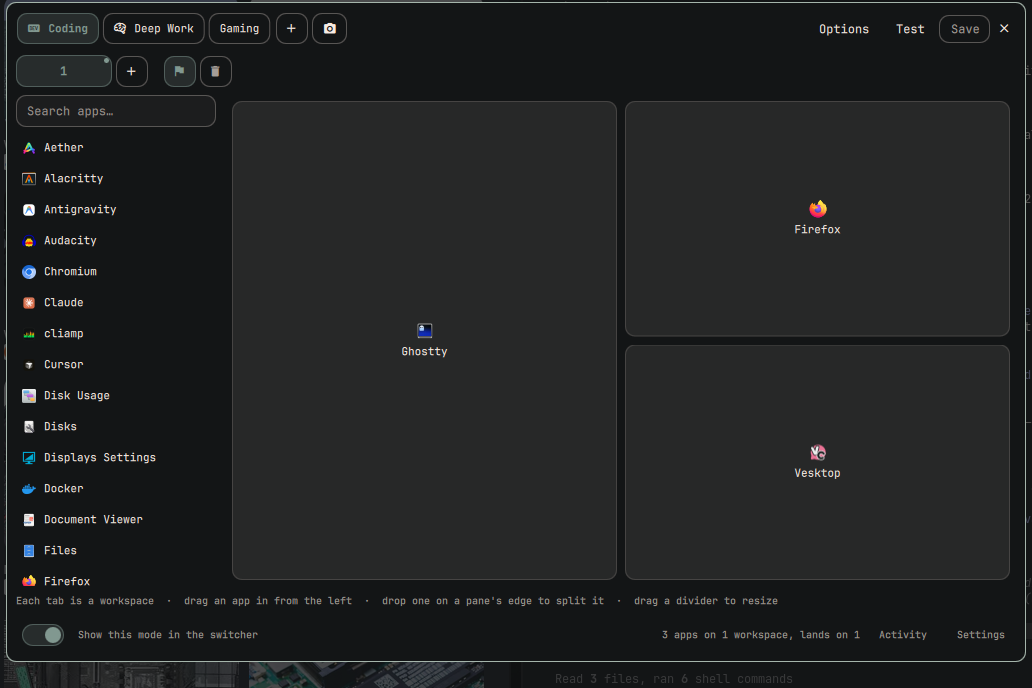
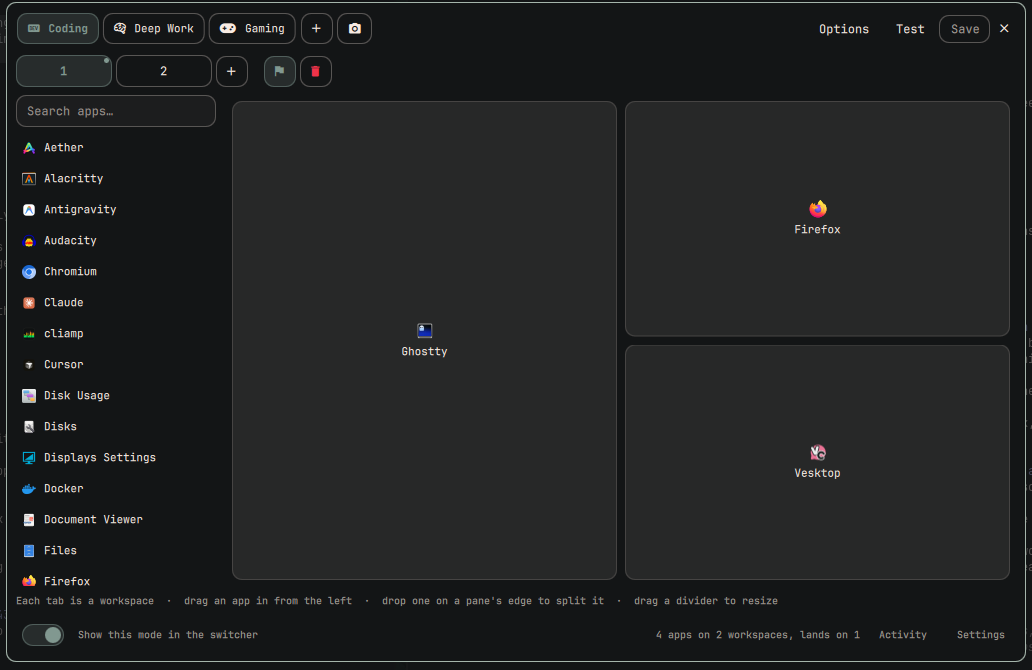
Call it Workspace Modes, and show what it actually looks like
The name is the product's, not the package's. `name` and the bar widget's
`displayName` read Workspace Modes now, along with every notification, the
CLI's help, and the README. What nobody has to re-learn stays put: the id
is still io.github.anishfn.omara, the command is still `omara`, the config
is still omara.json, and the IPC target is still omara. Renaming those
would break an install, a keybinding and a script each, to say the same
thing twice.

Every screenshot predated the canvas — app-picker.png and icon-picker.png
were four days older than the panel they claimed to show, and preview.png
still had the sidebar in it. All retaken, plus two the README never had:
the switcher, which is the part you touch every day, and the Options
sheet, which is where everything that is not the canvas went. The three
replacements are also a fifth of the weight of the ones they replace.

The opening illustration described the flat list of applications the
canvas replaced. It draws the layout now, because that is the thing you
draw. Quick start pointed at an Environment section that has been behind
Options since the panel became the canvas.

diff --git a/Service.qml b/Service.qml
@@ -551,9 +551,9 @@ Item {
     service.configRefusal = reason
     log("warn", "Refusing to read or write omara.json: " + reason)
     notify([
-      "omarchy-notification-send", "--app-name", "Omara", "-u", "critical", "Omara",
+      "omarchy-notification-send", "--app-name", "Workspace Modes", "-u", "critical", "Workspace Modes",
       "omara.json was not used because " + reason
-        + ". Omara started with no modes and will not write to that path. Nothing was changed or deleted."
+        + ". Workspace Modes started with no modes and will not write to that path. Nothing was changed or deleted."
     ])
   }
 
@@ -568,8 +568,8 @@ Item {
       else log("warn", "Could not save " + backup + ": " + detail)
     })
     notify([
-      "omarchy-notification-send", "--app-name", "Omara", "-u", "normal",
-      "Omara", "omara.json could not be read. A copy was saved as omara.json.corrupt."
+      "omarchy-notification-send", "--app-name", "Workspace Modes", "-u", "normal",
+      "Workspace Modes", "omara.json could not be read. A copy was saved as omara.json.corrupt."
     ])
   }
 
@@ -1249,7 +1249,7 @@ Item {
         + (current ? "" : " (superseded by a later switch)"))
       if (!current) return
       if (!silent && config.behavior.showNotifications !== false)
-        notify(["omarchy-notification-send", "--app-name", "Omara", "Omara", "No mode. " + name + " turned off."])
+        notify(["omarchy-notification-send", "--app-name", "Workspace Modes", "Workspace Modes", "No mode. " + name + " turned off."])
       service.activationFinished("", 0)
     })
     return true
@@ -1257,7 +1257,7 @@ Item {
 
   function notifySummary(ctx, summary) {
     if (config.behavior.showNotifications === false) return
-    var argv = ["omarchy-notification-send", "--app-name", "Omara"]
+    var argv = ["omarchy-notification-send", "--app-name", "Workspace Modes"]
     if (ctx.icon) argv = argv.concat(["-g", String(ctx.icon)])
     if (summary.warnings > 0) argv = argv.concat(["-u", "normal"])
     argv.push("Mode: " + ctx.name)
@@ -1380,7 +1380,7 @@ Item {
       }
     }
     onStatusChanged: if (status === Loader.Error)
-      service.log("warn", "Omara switch dialog failed to load: " + (errorString ? errorString() : "unknown error"))
+      service.log("warn", "Workspace Modes switch dialog failed to load: " + (errorString ? errorString() : "unknown error"))
   }
 
   // ---------------------------------------------------------------- themes
@@ -1599,7 +1599,7 @@ Item {
     log("info", "Trigger: " + decision.reason + " → asking about " + ctx.name)
     notify([
       "omarchy-notification-send",
-      "--app-name", "Omara",
+      "--app-name", "Workspace Modes",
       "-u", "normal",
       "Switch to " + ctx.name + "?",
       decision.reason + ", click to switch",
@@ -1627,7 +1627,7 @@ Item {
       }
     }
     onStatusChanged: if (status === Loader.Error)
-      service.log("warn", "Omara editor failed to load: " + (errorString ? errorString() : "unknown error"))
+      service.log("warn", "Workspace Modes editor failed to load: " + (errorString ? errorString() : "unknown error"))
   }
 
   property var pendingEditorMode: null

diff --git a/BarWidget.qml b/BarWidget.qml
@@ -24,7 +24,7 @@ BarWidget {
   readonly property string modeIcon: activeMode && activeMode.icon ? String(activeMode.icon) : ""
   readonly property string modeName: activeMode ? String(activeMode.name) : "No mode"
 
-  // The mark is the Omara logo until a mode brings its own icon, so the bar
+  // The mark is the Workspace Modes logo until a mode brings its own icon, so the bar
   // says which mode you are in before it says whose plugin this is.
   readonly property bool showLogo: root.showIcon && root.modeIcon === ""
   readonly property string glyphText: root.showIcon && root.modeIcon !== "" ? root.modeIcon : ""

diff --git a/OmaraMark.qml b/OmaraMark.qml
@@ -1,7 +1,7 @@
 import QtQuick
 import qs.Commons
 
-// The Omara mark: the shape a dwindle layout makes — one pane down the left,
+// The Workspace Modes mark: the shape a dwindle layout makes — one pane down the left,
 // two stacked beside it. Drawn rather than loaded, so it takes the bar's own
 // colour and stays sharp at the size the bar asks for.
 //

diff --git a/README.md b/README.md
@@ -1,29 +1,31 @@
 <p align="center">
-  <img src="assets/omara.png" alt="Omara" width="180">
+  <img src="assets/omara.png" alt="Workspace Modes" width="180">
 </p>
 
-<h1 align="center">Omara</h1>
+<h1 align="center">Workspace Modes</h1>
 
 <p align="center"><strong>Switch your entire desktop into the way you work.</strong></p>
 
 A *mode* is a way your desktop is set up. Coding, Gaming, Deep Work, whatever
 you actually do. Pick one and Omarchy becomes that: your apps open on the
-workspaces you want them on, notifications behave, audio goes where it should,
-and you land exactly where you meant to start.
+workspaces you laid them out on, notifications behave, audio goes where it
+should, and you land exactly where you meant to start.
 
 ```
-Coding                          Deep Work
-  Ghostty        ws 1             Do Not Disturb    on
-  Firefox        ws 2             Theme             gruvbox
-  Slack          ws 3             Workspace         3
-  Do Not Disturb off              Everything else   left alone
-  Land on        ws 1
+Coding                              Deep Work
+  ws 1  ┌─────────┬─────────┐         Do Not Disturb   on
+        │         │ Firefox │         Theme            gruvbox
+        │ Ghostty ├─────────┤         Land on          ws 3
+        │         │ Slack   │         Everything else  left alone
+        └─────────┴─────────┘
+  ws 2  Obsidian
+  Land on  ws 1
 ```
 
-One click, or `omara activate coding`.
+You draw that layout; you do not type it. One click, or `omara activate coding`.
 
-Local-first. No account, no cloud, no telemetry, no network access. Omara
-ships **empty**: nothing exists until you make it.
+Local-first. No account, no cloud, no telemetry, no network access. Workspace
+Modes ships **empty**: nothing exists until you make it.
 
 ---
 
@@ -83,12 +85,12 @@ one per action.
 
 ## What it is not
 
-**A session manager.** Omara does not save or restore window layouts, and it
-never will. The workspace canvas is a plan for what a mode *opens* — which
-workspace each application lands on and in what order — not a snapshot of
-where your windows happen to be sitting, and Omara never reads geometry back
-off the screen. Tools that snapshot your Hyprland windows already do that job,
-and Omara is built to sit alongside one.
+**A session manager.** Workspace Modes does not save or restore window layouts,
+and it never will. The workspace canvas is a plan for what a mode *opens* —
+which workspace each application lands on and in what order — not a snapshot of
+where your windows happen to be sitting, and Workspace Modes never reads
+geometry back off the screen. Tools that snapshot your Hyprland windows already
+do that job, and Workspace Modes is built to sit alongside one.
 
 | A session manager restores | A mode changes |
 |---|---|
@@ -107,8 +109,8 @@ and Omara is built to sit alongside one.
 | Omarchy | 4.0 (Quattro) or newer |
 | Everything else | already on your system: Quickshell, Hyprland, PipeWire, `jq` |
 
-Omara installs nothing, pulls no dependencies, and makes no network request
-after the clone.
+Workspace Modes installs nothing, pulls no dependencies, and makes no network
+request after the clone.
 
 Check you are on a new enough Omarchy:
 
@@ -155,7 +157,7 @@ omarchy plugin enable io.github.anishfn.omara --section left
 
 ```bash
 omarchy plugin list | grep modes
-# io.github.anishfn.omara   enabled   third-party   bar-widget,service   Omara
+# io.github.anishfn.omara   enabled   third-party   bar-widget,service   Workspace Modes
 ```
 
 The widget appears in your bar immediately, reading `○ No mode`. If it does
@@ -211,13 +213,15 @@ desktop back the way it was.
 | `~/.config/omarchy/omara.json` | your modes, safe to version-control |
 | `~/.local/state/omarchy/omara-state.json` | what to put back on *Disable mode* |
 
-Those three are the only paths Omara writes.
+Those three are the only paths Workspace Modes writes.
 
 ---
 
 ## Quick start
 
-1. **Click the widget** in your bar. On first run it reads `○ No mode`.
+![The switcher](screenshots/switcher.png)
+
+1. **Click the widget** in your bar. On first run it reads `No mode`.
    There are no modes until you make one.
 2. **Create a mode.** Fastest way: set your desktop up the way you like it,
    then press the camera, which captures what is open, where, and how.
@@ -227,10 +231,10 @@ Those three are the only paths Omara writes.
    1, browser on 2, chat on 3. Drop an app on the edge of a pane to split it.
 4. **Set where you land.** Press the flag on whichever tab you want the mode
    to leave you on.
-5. **Set the mood.** Under *Environment*: Do Not Disturb, audio output,
-   wallpaper, and **Theme**, each picked from a list rather than typed.
+5. **Set the mood.** Under **Options**: Do Not Disturb, audio output,
+   wallpaper, and theme, each picked from a list rather than typed.
 6. **Save**, then click the mode in the bar popup. If windows are already
-   open, Omara asks whether to close them first.
+   open, Workspace Modes asks whether to close them first.
 
 Your apps open across their workspaces without the screen flicking through each
 one, and you end up on the workspace you chose.
@@ -321,9 +325,9 @@ want is a pane you close.
 
 ![Choosing an icon](screenshots/icon-picker.png)
 
-The icon box next to the name, under **Options**, opens a searchable grid. Search by what you are
-doing (`code`, `game`, `focus`, `music`, `terminal`) or browse. **No icon** is
-always there.
+The icon box next to the name, under **Options**, opens a searchable grid.
+Search by what you are doing (`code`, `game`, `focus`, `music`, `terminal`) or
+browse. **No icon** is always there.
 
 The set is drawn from the glyphs Omarchy's own menu ships, so everything in the
 grid is guaranteed to render in your font rather than showing up as an empty
@@ -382,10 +386,10 @@ Hyprland's own grammar and nothing else: an id (`3`), a relative step (`+1`,
 `name:Deep Work`), or a special (`special:magic`). Anything outside that is
 refused rather than sent to the compositor.
 
-Some applications, Chromium among them, hand their window to a different
-process than the one Hyprland launched, so the placement rule loses track of
-them. Omara watches for the window and moves it to the right workspace itself
-when that happens, without following it.
+Some applications, Chromium among them, hand their window to a different process
+than the one Hyprland launched, so the placement rule loses track of them.
+Workspace Modes watches for the window and moves it to the right workspace
+itself when that happens, without following it.
 
 So a Coding mode might be:
 
@@ -398,6 +402,12 @@ So a Coding mode might be:
 Two workspaces populated, and you start on the terminal.
 
 ### Environment
+
+![Options](screenshots/options.png)
+
+Everything that is not the workspace canvas lives behind **Options**: what the
+mode is called, its icon, what it does to the environment, and the commands and
+triggers under *Advanced*. Duplicate and Delete are at the bottom.
 
 | Field | Options |
 |---|---|
@@ -425,11 +435,12 @@ These are shell strings, run as `bash -lc '<your string>'` — a login shell, so
 your `~/.bash_profile` and `PATH` apply, and pipelines, redirects, `&&` and
 substitution all work. That is the reason to write one instead of adding an
 application, and it is also the whole of the trust you are extending: the string
-is not parsed, escaped, or restricted by Omara, and a line here can do anything
-you can do at a prompt. It is the one field in Omara that works this way.
+is not parsed, escaped, or restricted by Workspace Modes, and a line here can do
+anything you can do at a prompt. It is the one field in Workspace Modes that
+works this way.
 
-Omara does not guess at inverses. If a command changes something you want put
-back, write the inverse yourself:
+Workspace Modes does not guess at inverses. If a command changes something you
+want put back, write the inverse yourself:
 
 ```
 On activate     omarchy-toggle-idle stay-awake
@@ -492,7 +503,7 @@ Switching straight from Coding to Gaming does the same thing: Coding's
 
 A mode opens its own applications, so switching into one on top of a full
 desktop leaves you with both. When you click a mode and something is open,
-Omara asks first:
+Workspace Modes asks first:
 
 - **Close them** closes every open window, then activates the mode. The
   close is the same request the compositor sends when you hit a window's close
@@ -512,10 +523,11 @@ say otherwise with `omara activate <id> --close`.
 
 ## Keybindings
 
-Omara registers no shortcuts. Add what you like to your Hyprland config:
+Workspace Modes registers no shortcuts. Add what you like to your Hyprland
+config:
 
 ```
-bindd = SUPER, C, Omara, exec, omara menu
+bindd = SUPER, C, Workspace Modes, exec, omara menu
 bindd = SUPER SHIFT, C, Coding mode, exec, omara activate coding
 bindd = SUPER ALT, C, Manage modes, exec, omara manage
 ```
@@ -523,7 +535,7 @@ bindd = SUPER ALT, C, Manage modes, exec, omara manage
 Without the CLI on your `PATH`, go through the shell directly:
 
 ```
-bindd = SUPER, C, Omara, exec, omarchy-shell shell toggle io.github.anishfn.omara
+bindd = SUPER, C, Workspace Modes, exec, omarchy-shell shell toggle io.github.anishfn.omara
 ```
 
 ---
@@ -688,8 +700,8 @@ picked up within a minute, or immediately with `omara reload`.
 
 ## Security
 
-Omara runs unsandboxed inside `omarchy-shell`, like every Omarchy plugin.
-Precisely what that means here:
+Workspace Modes runs unsandboxed inside `omarchy-shell`, like every Omarchy
+plugin. Precisely what that means here:
 
 **It never** makes a network request, downloads or evaluates code from anywhere,
 collects telemetry, runs anything on install or import, writes outside
@@ -723,7 +735,7 @@ everything else meaningful. The one deliberate exception is the availability
 check for your own configured applications, which has to use your `PATH`,
 because that is the thing being tested.
 
-Every process Omara reads output from runs under
+Every process Workspace Modes reads output from runs under
 `timeout -k 2` and is capped at the source — bytes, lines and item counts — with
 a QML watchdog behind it for a child that is unkillable rather than slow. None
 of it can wedge the shell: a FIFO where `theme.name` should be ends the read at
@@ -733,12 +745,13 @@ inherit one.
 
 **Actions report their real outcome, and land in order.** Setting a theme,
 wallpaper, audio output or Do Not Disturb, and launching a desktop entry, all
-run supervised: Omara waits for the exit code and an activation does not claim
-success while something it needed has failed or is still trying. They also run
-one at a time, in the order they were asked for, because two theme changes in
-flight at once can land in either order and leave the desktop showing something
-other than the mode that was reported. A verdict from a switch you have since
-replaced is logged, but it does not announce itself as the mode you are in.
+run supervised: Workspace Modes waits for the exit code and an activation does
+not claim success while something it needed has failed or is still trying. They
+also run one at a time, in the order they were asked for, because two theme
+changes in flight at once can land in either order and leave the desktop showing
+something other than the mode that was reported. A verdict from a switch you
+have since replaced is logged, but it does not announce itself as the mode you
+are in.
 
 Stopping the wait is not the same as stopping the process. An action that
 overruns its reporting deadline is left running — killing `omarchy-theme-set`
@@ -753,8 +766,8 @@ missing applications.
 **Files carry their guarantees in the open itself.** Quickshell's `FileView`
 takes a pathname and reads to the end: no `O_NOFOLLOW`, no non-blocking open, no
 size ceiling. Checking the name first and then handing the same name over only
-narrows that window, so Omara does not use `FileView` at all. Reads go through
-`dd iflag=nofollow,nonblock` with a hard `count`×`bs` ceiling, beneath a
+narrows that window, so Workspace Modes does not use `FileView` at all. Reads go
+through `dd iflag=nofollow,nonblock` with a hard `count`×`bs` ceiling, beneath a
 directory verified to be yours and not writable by anyone else — a symlink is
 refused by the open, a FIFO returns empty instead of blocking, and an oversized
 file is cut off. Writes are the same transaction from the other side: a fresh
@@ -834,7 +847,7 @@ dialog would otherwise open behind it. If the chooser fails to start at all,
 the file could not be parsed, a copy was saved as `omara.json.corrupt` and
 the plugin started from defaults rather than overwriting your only copy.
 
-**The theme list is empty.** Omara reads `$OMARCHY_PATH/themes` and
+**The theme list is empty.** Workspace Modes reads `$OMARCHY_PATH/themes` and
 `~/.config/omarchy/themes`. If `omarchy theme list` prints themes and the picker
 does not, `omarchy-restart-shell`.
 
@@ -875,7 +888,7 @@ after you fixed it, `omarchy-restart-shell` clears it.
 | `Service.qml` | Config file, runtime snapshot, activation, triggers, the `omara` IPC target, and the editor window. |
 | `BarWidget.qml` | Bar button and switcher popup. |
 | `ModeRow.qml` | One mode in a list. Reserves the icon slot whether or not the mode filled it, so names line up. |
-| `OmaraMark.qml` | The bar mark, drawn as vector paths so it takes the theme's colour. |
+| `OmaraMark.qml` | The bar mark, drawn as three rectangles on a nine-unit grid so it takes the theme's colour and lands on whole pixels. |
 | `EditorWindow.qml` | The manage / edit overlay. |
 | `ModeForm.qml` | The edit form for one mode. |
 | `WorkspaceCanvas.qml` | The workspace canvas: tabs, the app list, and the drag-and-drop panes. Draws and hit-tests from one `Model.paneRects` call. |
